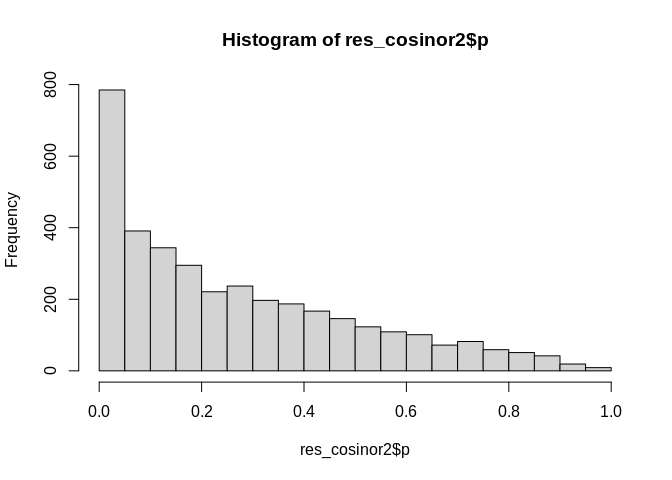
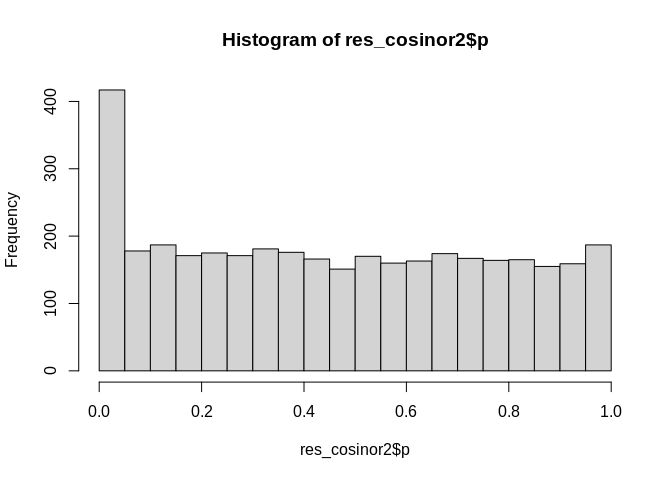
typo

diff --git a/docs/benchmarking.md b/docs/benchmarking.md
@@ -62,13 +62,13 @@ head(res_limo)
 head(res_cosinor2)
 ```
 
-    ##                   r Percent.rhythm    p.value acrophase
-    ## Species_2 0.2682251     0.07194470 0.14458386 -5.932021
-    ## Species_3 0.1543544     0.02382527 0.40706041 -4.884728
-    ## Species_4 0.3072501     0.09440261 0.09269616 -5.045898
-    ## Species_5 0.2641740     0.06978789 0.15098209 -1.539592
-    ## Species_6 0.1262453     0.01593787 0.49857470 -3.365228
-    ## Species_8 0.2508729     0.06293720 0.17342296 -2.750773
+    ##                   F df1 df2         p acrophase
+    ## Species_2 1.0853080   2  28 0.3515879 -5.932021
+    ## Species_3 0.3416948   2  28 0.7134866 -4.884728
+    ## Species_4 1.4594085   2  28 0.2495125 -5.045898
+    ## Species_5 1.0503309   2  28 0.3632017 -1.539592
+    ## Species_6 0.2267439   2  28 0.7985742 -3.365228
+    ## Species_8 0.9403007   2  28 0.4024962 -2.750773
 
 ``` r
 res_tot = do.call(cbind, list(res_kronos, res_jtk, res_limo, res_cosinor2))
@@ -100,13 +100,13 @@ head(res_tot)
     ## Species_5   0.005791869    0.18555031  -0.03017543 1.0099758    0.3714700
     ## Species_6  -0.111169227   -0.02528427  -0.77047212 0.2338499    0.7923334
     ## Species_8  -0.161557335    0.06656371   0.05502427 0.9355144    0.3990815
-    ##           adj.P.Val_limo r_cosinor2 Percent.rhythm_cosinor2 p.value_cosinor2
-    ## Species_2      0.8330279  0.2682251              0.07194470       0.14458386
-    ## Species_3      0.9590520  0.1543544              0.02382527       0.40706041
-    ## Species_4      0.8767841  0.3072501              0.09440261       0.09269616
-    ## Species_5      0.8707995  0.2641740              0.06978789       0.15098209
-    ## Species_6      0.9770689  0.1262453              0.01593787       0.49857470
-    ## Species_8      0.8796326  0.2508729              0.06293720       0.17342296
+    ##           adj.P.Val_limo F_cosinor2 df1_cosinor2 df2_cosinor2 p_cosinor2
+    ## Species_2      0.8330279  1.0853080            2           28  0.3515879
+    ## Species_3      0.9590520  0.3416948            2           28  0.7134866
+    ## Species_4      0.8767841  1.4594085            2           28  0.2495125
+    ## Species_5      0.8707995  1.0503309            2           28  0.3632017
+    ## Species_6      0.9770689  0.2267439            2           28  0.7985742
+    ## Species_8      0.8796326  0.9403007            2           28  0.4024962
     ##           acrophase_cosinor2
     ## Species_2          -5.932021
     ## Species_3          -4.884728
